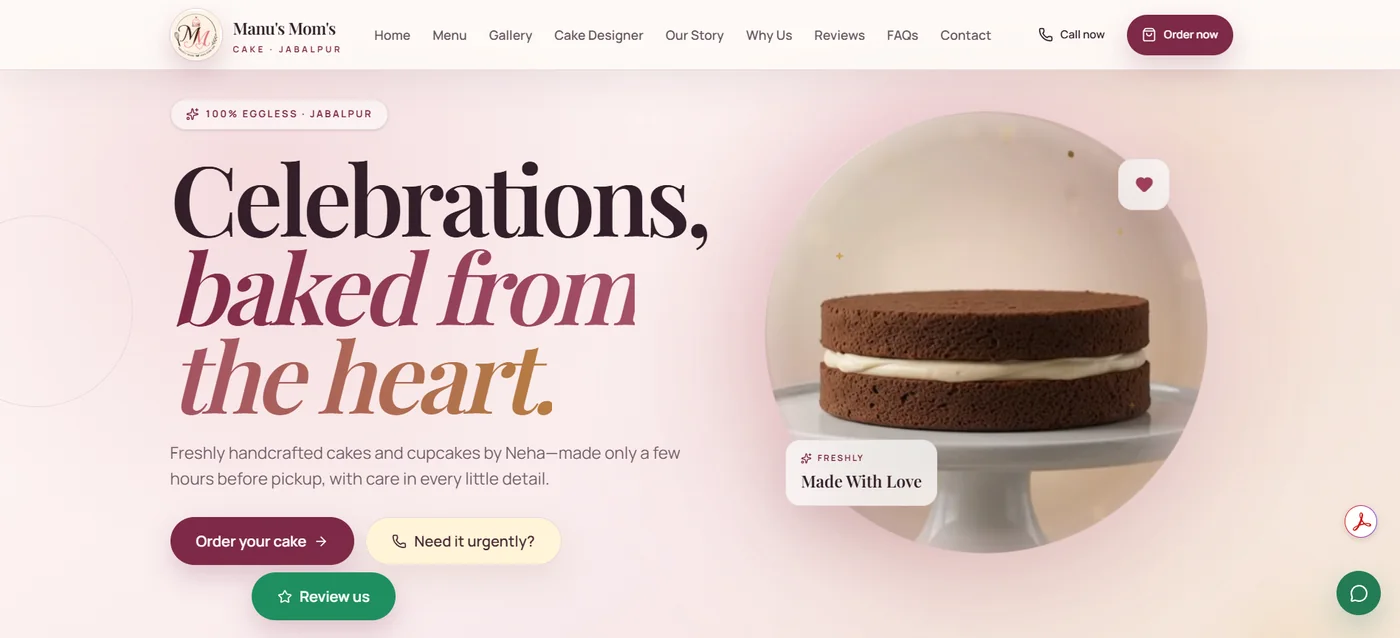
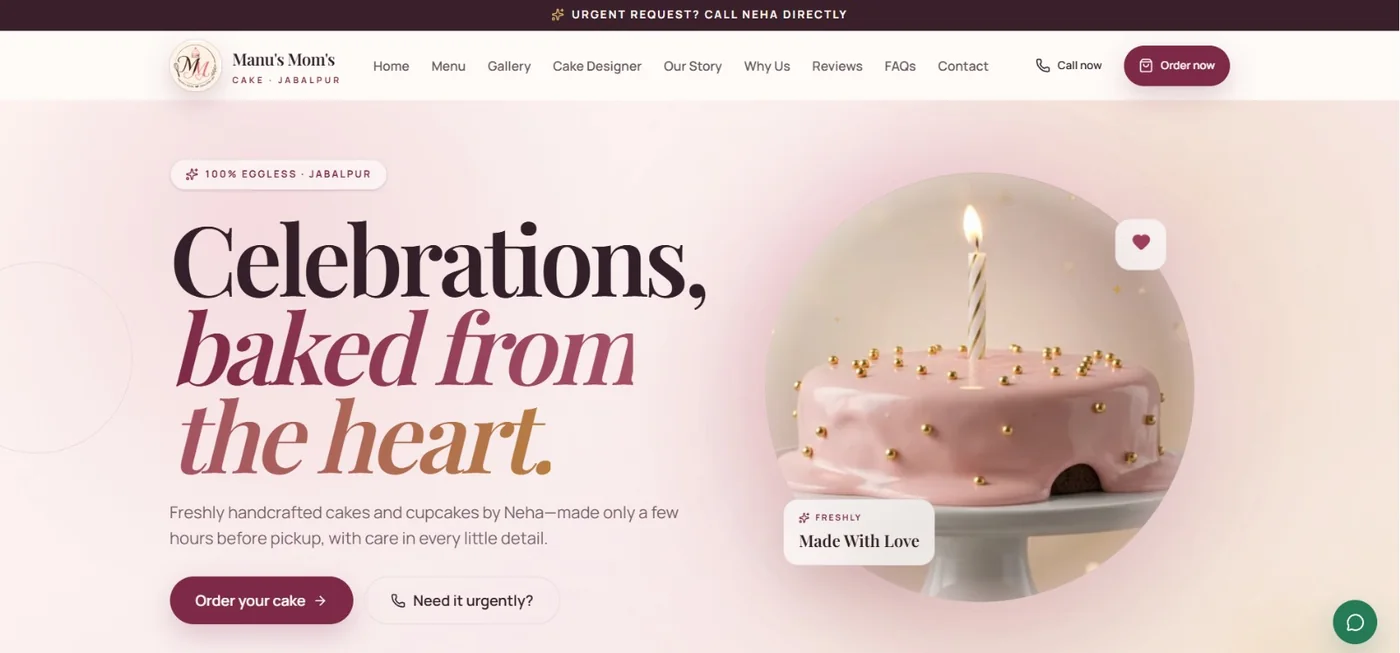
Refine case study credits and cursor behavior

diff --git a/index.html b/index.html
@@ -44,7 +44,7 @@
 <section class="section shell why-section"><div class="section-heading"><span class="eyebrow">Why choose Weburate?</span><h2>Clear decisions throughout the project.</h2><p>Trust should come from the way the work is scoped and delivered, not from unsupported numbers or invented reviews.</p></div><div class="benefit-grid"><article><h3>Clear communication</h3><p>Requirements, responsibilities, feedback and next steps are written down so both sides know what is expected.</p></article><article><h3>Practical design</h3><p>Layouts are shaped around real services, customer questions and contact actions—not decoration alone.</p></article><article><h3>Mobile responsiveness</h3><p>Pages are designed and checked for smaller screens, readable content and usable touch targets.</p></article><article><h3>Performance-conscious builds</h3><p>Lean frontend code, local assets and sensible loading choices help pages stay responsive.</p></article><article><h3>Transparent scope</h3><p>The quote identifies included pages, features, revisions, exclusions, payment milestones and dependencies.</p></article><article><h3>Launch and support boundaries</h3><p>Deployment and any defect-support period are stated in the accepted scope. Ongoing work is quoted separately.</p></article></div></section>
 <section class="dark-band" id="process"><div class="shell"><div class="section-heading"><span class="eyebrow">Project process</span><h2>Eight straightforward stages from enquiry to launch.</h2></div><div class="steps process-steps"><article><b>01</b><h3>Requirement discussion</h3><p>We discuss the business, audience, website goal, pages, features and preferred contact journey.</p></article><article><b>02</b><h3>Scope and quotation</h3><p>You receive a written scope covering deliverables, exclusions, revisions, timing and payment terms.</p></article><article><b>03</b><h3>Content collection</h3><p>You provide approved text, images, policies, brand files and account access needed for the work.</p></article><article><b>04</b><h3>Design direction</h3><p>A responsive visual direction establishes hierarchy, style and the main visitor journey.</p></article><article><b>05</b><h3>Development</h3><p>The approved direction becomes accessible, responsive pages with agreed forms and integrations.</p></article><article><b>06</b><h3>Review and revisions</h3><p>You send consolidated feedback within the revision rounds included in the written scope.</p></article><article><b>07</b><h3>Testing and launch</h3><p>Links, forms, devices, metadata and launch settings are checked before the approved site goes live.</p></article><article><b>08</b><h3>Optional maintenance</h3><p>Future updates or monitoring can be covered by a separate maintenance scope when needed.</p></article></div><p class="process-note">Delivery estimates depend on timely content, access, approvals and consolidated feedback. Delays in those inputs can move the launch date.</p></div></section>
 <section class="section shell" id="industries"><div class="section-heading"><span class="eyebrow">Industry examples</span><h2>Website planning for different customer decisions.</h2><p>These pages describe useful website directions for each industry. They do not claim previous client work.</p></div><div class="industry-grid"><a class="industry-card concept-1" href="/industries/restaurant-websites"><span>Restaurant website planning</span><strong>Menus, hours and reservations</strong></a><a class="industry-card concept-2" href="/industries/clinic-websites"><span>Clinic website planning</span><strong>Services and appointment enquiries</strong></a><a class="industry-card concept-3" href="/industries/gym-websites"><span>Gym website planning</span><strong>Memberships and trial enquiries</strong></a></div></section>
-<section class="section shell" id="portfolio"><div class="section-heading"><span class="eyebrow">Selected work</span><h2>Live client work, with concepts kept clearly separate.</h2><p>Real client projects will be added here as they launch. The first example below links to the working website; the three pieces after it remain demonstration concepts.</p></div><article class="live-case-study"><div class="case-study-visual"><img src="/assets/portfolio/manus-moms-cake-home.webp" width="1400" height="638" loading="lazy" decoding="async" alt="Manu’s Mom’s Cake homepage with eggless bakery message and ordering actions"><div class="case-study-gallery" aria-label="Manu’s Mom’s Cake website screens"><img src="/assets/portfolio/manus-moms-cake-menu.webp" width="1400" height="640" loading="lazy" decoding="async" alt="Manu’s Mom’s Cake menu with category filters and cake cards"><img src="/assets/portfolio/manus-moms-cake-designer.webp" width="1400" height="639" loading="lazy" decoding="async" alt="Manu’s Mom’s Cake twelve-step cake designer interface"></div></div><div class="case-study-copy"><span class="status-label live-label">Live client project · Bakery · Jabalpur</span><h3>Manu’s Mom’s Cake</h3><p>A Jabalpur home bakery presents its 100% eggless cakes, cupcakes and brownies through a mobile-first website with clear local information.</p><ul><li>On-page search metadata names Vijay Nagar, Ahinsa Chowk and Jagdamba Colony alongside Jabalpur.</li><li>Open Graph and Twitter Card metadata provide a full preview when the site is shared.</li><li>The 100% eggless position is stated prominently for customers comparing bakery options.</li><li>The live site uses a modern JavaScript framework and is available for search indexing.</li></ul><div class="case-study-pending"><strong>Project details to confirm</strong><p>[ASK VIRAJ: pages and features built, integrations and order or enquiry flow]</p><p>[ASK VIRAJ: timeline, specific role, prior-site status and an approved owner quote]</p></div><a class="button primary" href="https://manumomscake.in" target="_blank" rel="noopener noreferrer" data-event="portfolio_live_site">View live site <svg class="icon" viewBox="0 0 24 24" aria-hidden="true" focusable="false"><path d="M5 12h14M13 6l6 6-6 6"/></svg></a></div></article><div class="concept-heading"><span class="eyebrow">Demonstration work</span><h3>Additional website directions.</h3><p>These examples show how Weburate could structure other industry-specific websites. They are not paid client work and include no claimed results.</p></div><div class="concept-grid detailed-concepts"><article class="concept-card concept-1"><span class="status-label">Concept Project</span><div><small>Restaurant · Demo website</small><strong>Ember Table</strong><p>A warm restaurant concept that makes the menu, opening hours, location and reservation action easy to find.</p><ul><li>Menu and dietary-information layout</li><li>Hours, map and reservation links</li><li>Mobile-first enquiry journey</li></ul><p class="tech-line"><b>Technology:</b> HTML, CSS and JavaScript concept</p><a href="/industries/restaurant-websites">View restaurant concept <svg class="icon" viewBox="0 0 24 24" aria-hidden="true" focusable="false"><path d="M5 12h14M13 6l6 6-6 6"/></svg></a></div></article><article class="concept-card concept-2"><span class="status-label">Concept Project</span><div><small>Healthcare · Demo website</small><strong>CalmCare</strong><p>A calm clinic concept for approved service information, practitioner profiles and appointment enquiries.</p><ul><li>Service and practitioner structure</li><li>Timings, location and contact details</li><li>Accessible appointment-enquiry path</li></ul><p class="tech-line"><b>Technology:</b> HTML, CSS and JavaScript concept</p><a href="/industries/clinic-websites">View clinic concept <svg class="icon" viewBox="0 0 24 24" aria-hidden="true" focusable="false"><path d="M5 12h14M13 6l6 6-6 6"/></svg></a></div></article><article class="concept-card concept-3"><span class="status-label">Concept Project</span><div><small>Fitness · Demo website</small><strong>Form Studio</strong><p>An energetic gym concept that organises membership information, schedules, facilities and trial enquiries.</p><ul><li>Membership and class sections</li><li>Trainer and facility profiles</li><li>Trial-session and WhatsApp actions</li></ul><p class="tech-line"><b>Technology:</b> HTML, CSS and JavaScript concept</p><a href="/industries/gym-websites">View gym concept <svg class="icon" viewBox="0 0 24 24" aria-hidden="true" focusable="false"><path d="M5 12h14M13 6l6 6-6 6"/></svg></a></div></article></div><p class="concept-disclaimer">Each item is a demonstration concept created to show a possible website direction for that industry. <a href="#contact">Request a similar website</a> for your own verified business content.</p></section>
+<section class="section shell" id="portfolio"><div class="section-heading"><span class="eyebrow">Selected work</span><h2>Live client work, with concepts kept clearly separate.</h2><p>Real client projects will be added here as they launch. The first example below links to the working website; the three pieces after it remain demonstration concepts.</p></div><article class="live-case-study"><div class="case-study-visual"><img src="/assets/portfolio/manus-moms-cake-home.webp" width="1400" height="653" loading="lazy" decoding="async" alt="Manu’s Mom’s Cake homepage with eggless bakery message and ordering actions"><div class="case-study-gallery" aria-label="Manu’s Mom’s Cake website screens"><img src="/assets/portfolio/manus-moms-cake-menu.webp" width="1400" height="640" loading="lazy" decoding="async" alt="Manu’s Mom’s Cake menu with category filters and cake cards"><img src="/assets/portfolio/manus-moms-cake-designer.webp" width="1400" height="639" loading="lazy" decoding="async" alt="Manu’s Mom’s Cake twelve-step cake designer interface"></div></div><div class="case-study-copy"><span class="status-label live-label">Live client project · Bakery · Jabalpur</span><h3>Manu’s Mom’s Cake</h3><p>A Jabalpur home bakery presents its 100% eggless cakes, cupcakes and brownies through a mobile-first website with clear local information.</p><ul><li>On-page search metadata names Vijay Nagar, Ahinsa Chowk and Jagdamba Colony alongside Jabalpur.</li><li>Open Graph and Twitter Card metadata provide a full preview when the site is shared.</li><li>The 100% eggless position is stated prominently for customers comparing bakery options.</li><li>The live site uses a modern JavaScript framework and is available for search indexing.</li><li>The supplied screens show a searchable menu with filters, a 12-step cake designer and direct order or urgent-call actions.</li></ul><div class="case-study-pending"><strong>Project credits</strong><p>Viraj Kumar Vishwakarma led the project, with Aanya Jain as a development teammate.</p><p>[ASK VIRAJ: timeline, prior-site status and an approved owner quote]</p></div><a class="button primary" href="https://manumomscake.in" target="_blank" rel="noopener noreferrer" data-event="portfolio_live_site">View live site <svg class="icon" viewBox="0 0 24 24" aria-hidden="true" focusable="false"><path d="M5 12h14M13 6l6 6-6 6"/></svg></a></div></article><div class="concept-heading"><span class="eyebrow">Demonstration work</span><h3>Additional website directions.</h3><p>These examples show how Weburate could structure other industry-specific websites. They are not paid client work and include no claimed results.</p></div><div class="concept-grid detailed-concepts"><article class="concept-card concept-1"><span class="status-label">Concept Project</span><div><small>Restaurant · Demo website</small><strong>Ember Table</strong><p>A warm restaurant concept that makes the menu, opening hours, location and reservation action easy to find.</p><ul><li>Menu and dietary-information layout</li><li>Hours, map and reservation links</li><li>Mobile-first enquiry journey</li></ul><p class="tech-line"><b>Technology:</b> HTML, CSS and JavaScript concept</p><a href="/industries/restaurant-websites">View restaurant concept <svg class="icon" viewBox="0 0 24 24" aria-hidden="true" focusable="false"><path d="M5 12h14M13 6l6 6-6 6"/></svg></a></div></article><article class="concept-card concept-2"><span class="status-label">Concept Project</span><div><small>Healthcare · Demo website</small><strong>CalmCare</strong><p>A calm clinic concept for approved service information, practitioner profiles and appointment enquiries.</p><ul><li>Service and practitioner structure</li><li>Timings, location and contact details</li><li>Accessible appointment-enquiry path</li></ul><p class="tech-line"><b>Technology:</b> HTML, CSS and JavaScript concept</p><a href="/industries/clinic-websites">View clinic concept <svg class="icon" viewBox="0 0 24 24" aria-hidden="true" focusable="false"><path d="M5 12h14M13 6l6 6-6 6"/></svg></a></div></article><article class="concept-card concept-3"><span class="status-label">Concept Project</span><div><small>Fitness · Demo website</small><strong>Form Studio</strong><p>An energetic gym concept that organises membership information, schedules, facilities and trial enquiries.</p><ul><li>Membership and class sections</li><li>Trainer and facility profiles</li><li>Trial-session and WhatsApp actions</li></ul><p class="tech-line"><b>Technology:</b> HTML, CSS and JavaScript concept</p><a href="/industries/gym-websites">View gym concept <svg class="icon" viewBox="0 0 24 24" aria-hidden="true" focusable="false"><path d="M5 12h14M13 6l6 6-6 6"/></svg></a></div></article></div><p class="concept-disclaimer">Each item is a demonstration concept created to show a possible website direction for that industry. <a href="#contact">Request a similar website</a> for your own verified business content.</p></section>
 <section class="section shell pricing" id="pricing"><div class="section-heading"><span class="eyebrow">Indicative pricing</span><h2>Original package prices with defined starting scope.</h2><p>The amounts below are starting package estimates. Final price depends on the confirmed pages, content, features, integrations and delivery requirements.</p></div><div class="pricing-grid"><article><span>Custom Basic</span><strong>₹6,000</strong><p>Suitable for a new business needing one focused page.</p><ul class="package-list"><li>1 responsive page</li><li>Custom design direction</li><li>Contact form and WhatsApp integration</li><li>Basic on-page SEO setup</li><li>1 consolidated revision round</li><li>Estimated 3–5 business days after content approval</li><li>7 days of delivered-work defect support</li></ul><a href="#contact" data-event="pricing_cta">Get a Free Consultation</a></article><article><span>Starter</span><strong>₹6,999</strong><p>Suitable for a small service business needing a basic website.</p><ul class="package-list"><li>Up to 5 responsive pages</li><li>Custom visual design</li><li>Contact form and WhatsApp integration</li><li>Basic on-page SEO setup</li><li>2 consolidated revision rounds</li><li>Estimated 7–10 business days after content approval</li><li>14 days of delivered-work defect support</li></ul><a href="#contact" data-event="pricing_cta">Get a Free Consultation</a></article><article><span>Growth</span><strong>₹15,000</strong><p>Suitable for a growing business with broader content or one agreed integration.</p><ul class="package-list"><li>Up to 10 responsive pages</li><li>Custom visual design</li><li>Contact form and WhatsApp integration</li><li>Basic on-page SEO setup</li><li>2 consolidated revision rounds</li><li>Estimated 2–4 weeks after content approval</li><li>30 days of delivered-work defect support</li></ul><a href="#contact" data-event="pricing_cta">Discuss the Growth package</a></article><article><span>Premium</span><strong>₹25,000+</strong><p>Suitable for custom application, commerce or integration requirements.</p><ul class="package-list"><li>Pages and features defined after discovery</li><li>Custom responsive interface</li><li>Forms and integrations stated in the quote</li><li>Basic technical SEO baseline</li><li>Revisions stated in the quote</li><li>Milestone-based delivery estimate</li><li>Support period stated in the quote</li></ul><a href="#contact" data-event="pricing_cta">Discuss a Premium project</a></article></div><div class="pricing-terms"><h3>Package notes</h3><ul><li>The client supplies accurate final copy, images, policies and approvals unless content services are quoted separately.</li><li>Hosting setup may be included, but hosting fees remain separate unless the quote explicitly includes them.</li><li>Domain registration, premium tools, stock assets, licences, payment-provider fees and paid third-party services cost extra unless stated otherwise.</li><li>One revision round means one consolidated set of feedback. New pages or features are scope changes.</li><li>Work begins after the written scope and payment terms are accepted and the agreed initial payment is received.</li><li>Basic SEO setup does not guarantee search positions, traffic, enquiries or sales.</li></ul></div></section>
 <section class="section shell faq-section" id="faq"><div class="section-heading"><span class="eyebrow">Common questions</span><h2>What to know before requesting a quote.</h2></div><div class="faq-list"><div class="accordion-item"><h3><button class="accordion-button" type="button" id="faq-q-1" aria-expanded="false" aria-controls="faq-a-1">How much does a website cost?<span aria-hidden="true">+</span></button></h3><section class="accordion-panel" id="faq-a-1" aria-labelledby="faq-q-1" hidden><p>The current packages start at ₹6,000. The final quote depends on page count, design, content, forms, integrations, e-commerce requirements and support.</p></section></div><div class="accordion-item"><h3><button class="accordion-button" type="button" id="faq-q-2" aria-expanded="false" aria-controls="faq-a-2">How long does development take?<span aria-hidden="true">+</span></button></h3><section class="accordion-panel" id="faq-a-2" aria-labelledby="faq-q-2" hidden><p>A small project may take several business days after approved content is received. Larger or custom work takes longer. The written quote provides an estimate, and delayed content, access or feedback can move it.</p></section></div><div class="accordion-item"><h3><button class="accordion-button" type="button" id="faq-q-3" aria-expanded="false" aria-controls="faq-a-3">What information do I need to provide?<span aria-hidden="true">+</span></button></h3><section class="accordion-panel" id="faq-a-3" aria-labelledby="faq-q-3" hidden><p>Provide business details, approved service or product content, brand files, images, contact information, policies, examples you like, required pages, desired timing and relevant account access.</p></section></div><div class="accordion-item"><h3><button class="accordion-button" type="button" id="faq-q-4" aria-expanded="false" aria-controls="faq-a-4">Are domain and hosting included?<span aria-hidden="true">+</span></button></h3><section class="accordion-panel" id="faq-a-4" aria-labelledby="faq-q-4" hidden><p>Setup can be included in the scope, but domain registration and hosting fees are separate unless the written quote says otherwise. Accounts should normally be owned by the client.</p></section></div><div class="accordion-item"><h3><button class="accordion-button" type="button" id="faq-q-5" aria-expanded="false" aria-controls="faq-a-5">Can I update the website later?<span aria-hidden="true">+</span></button></h3><section class="accordion-panel" id="faq-a-5" aria-labelledby="faq-q-5" hidden><p>Yes. The editing approach depends on how often content changes and the selected technology. Future changes can be handled internally or through a separate maintenance scope.</p></section></div><div class="accordion-item"><h3><button class="accordion-button" type="button" id="faq-q-6" aria-expanded="false" aria-controls="faq-a-6">Will the website work on mobile?<span aria-hidden="true">+</span></button></h3><section class="accordion-panel" id="faq-a-6" aria-labelledby="faq-q-6" hidden><p>Responsive layouts, readable content and usable touch targets are included in the build and testing process.</p></section></div><div class="accordion-item"><h3><button class="accordion-button" type="button" id="faq-q-7" aria-expanded="false" aria-controls="faq-a-7">Does Weburate write website content?<span aria-hidden="true">+</span></button></h3><section class="accordion-panel" id="faq-a-7" aria-labelledby="faq-q-7" hidden><p>The client normally supplies accurate final content. Planning, editing or copywriting can be discussed and quoted separately when required.</p></section></div><div class="accordion-item"><h3><button class="accordion-button" type="button" id="faq-q-8" aria-expanded="false" aria-controls="faq-a-8">Do you provide SEO?<span aria-hidden="true">+</span></button></h3><section class="accordion-panel" id="faq-a-8" aria-labelledby="faq-q-8" hidden><p>Basic technical and on-page SEO setup can be included, but search positions depend on competition, content quality, authority and ongoing work. Rankings cannot be guaranteed.</p></section></div><div class="accordion-item"><h3><button class="accordion-button" type="button" id="faq-q-9" aria-expanded="false" aria-controls="faq-a-9">Can you redesign an existing website?<span aria-hidden="true">+</span></button></h3><section class="accordion-panel" id="faq-a-9" aria-labelledby="faq-q-9" hidden><p>Yes. A redesign starts with the current content, platform, URLs and highest-priority customer journeys. Useful URLs are preserved where possible and redirects are planned when required.</p></section></div><div class="accordion-item"><h3><button class="accordion-button" type="button" id="faq-q-10" aria-expanded="false" aria-controls="faq-a-10">What happens after launch?<span aria-hidden="true">+</span></button></h3><section class="accordion-panel" id="faq-a-10" aria-labelledby="faq-q-10" hidden><p>The included defect-support period is stated in the package or quote. New features, ongoing updates, monitoring and third-party issues require a separate maintenance agreement.</p></section></div><div class="accordion-item"><h3><button class="accordion-button" type="button" id="faq-q-11" aria-expanded="false" aria-controls="faq-a-11">How do payments work?<span aria-hidden="true">+</span></button></h3><section class="accordion-panel" id="faq-a-11" aria-labelledby="faq-q-11" hidden><p>Payment terms are confirmed in the written quote. Projects normally begin after the agreed initial payment, with remaining payments tied to stated milestones.</p></section></div><div class="accordion-item"><h3><button class="accordion-button" type="button" id="faq-q-12" aria-expanded="false" aria-controls="faq-a-12">How many revisions are included?<span aria-hidden="true">+</span></button></h3><section class="accordion-panel" id="faq-a-12" aria-labelledby="faq-q-12" hidden><p>Custom Basic includes one consolidated round; Starter and Growth include two. Premium and custom projects state revision rounds in the quote. Additional or out-of-scope changes may affect price and timing.</p></section></div></div></section>
 <section class="section shell contact" id="contact"><div><span class="eyebrow">Free website consultation</span><h2>Share what your business needs from its website.</h2><p>Send the essential details for an initial discussion. Weburate can respond using the email or phone number you provide. There is no obligation to proceed after the consultation.</p><div class="contact-links"><a href="https://wa.me/916264449774?text=Hi%20Weburate%2C%20I%27m%20interested%20in%20discussing%20a%20website%20for%20my%20business." data-event="whatsapp_contact"><span>Fast alternative</span><strong>Chat on WhatsApp</strong></a><a href="tel:+916264449774" data-event="phone_click"><span>Phone</span><strong>+91&nbsp;62644&nbsp;49774</strong></a><a href="mailto:weburateinfotech@gmail.com" data-event="email_click"><span>Email</span><strong>weburateinfotech@gmail.com</strong></a></div></div><form id="contact-form" class="contact-form" novalidate><div class="field"><label for="name">Name <span aria-hidden="true">*</span></label><input id="name" name="name" type="text" autocomplete="name" maxlength="100" required aria-describedby="name-error"><span class="field-error" id="name-error"></span></div><div class="field"><label for="business">Business or organization <span class="optional">Optional</span></label><input id="business" name="business" type="text" autocomplete="organization" maxlength="120"></div><div class="field"><label for="email">Email <span aria-hidden="true">*</span></label><input id="email" name="email" type="email" autocomplete="email" inputmode="email" maxlength="254" required aria-describedby="email-error"><span class="field-error" id="email-error"></span></div><div class="field"><label for="phone">Phone or WhatsApp <span class="optional">Optional</span></label><input id="phone" name="phone" type="tel" autocomplete="tel" maxlength="30"></div><div class="field"><label for="service">Type of website</label><select id="service" name="service"><option value="">Not sure yet</option><option>Business Website</option><option>Landing Page</option><option>E-commerce Website</option><option>Website Redesign</option><option>Website Maintenance</option></select></div><div class="field"><label for="budget">Approximate budget <span class="optional">Optional</span></label><select id="budget" name="budget"><option value="">Prefer to discuss</option><option>₹6,000–₹10,000</option><option>₹10,001–₹20,000</option><option>₹20,001–₹40,000</option><option>Above ₹40,000</option></select></div><div class="field full"><label for="message">Project details <span aria-hidden="true">*</span></label><textarea id="message" name="message" rows="6" minlength="20" maxlength="3000" required aria-describedby="message-help message-error"></textarea><span class="field-help" id="message-help">Mention the current website, required pages, main customer action, desired timing and important integrations when known.</span><span class="field-error" id="message-error"></span></div><div class="honeypot" aria-hidden="true"><label for="website">Leave this field empty</label><input id="website" name="website" type="text" tabindex="-1" autocomplete="off"></div><input type="hidden" name="startedAt" id="started-at"><div class="full"><p class="consent">Your information is used only to understand and respond to this enquiry. Read the <a href="/privacy">Privacy Policy</a>.</p><div id="form-status" class="form-status" role="status" aria-live="polite"></div><button class="button primary" type="submit">Request a Free Consultation <svg class="icon" viewBox="0 0 24 24" aria-hidden="true" focusable="false"><path d="M5 12h14M13 6l6 6-6 6"/></svg></button></div></form></section></main><footer class="footer shell">

diff --git a/assets/css/site.20260717-3.css b/assets/css/site.20260717-3.css
@@ -320,4 +320,5 @@ background:rgba(255,255,255,.82);
 box-shadow:0 18px 45px rgba(0,0,0,.08);
 transform:translateY(-2px) scale(.985);
 }
+body{cursor:default}a,button,summary,label[for],select{cursor:pointer}input,textarea,[contenteditable="true"]{cursor:text}
 .live-case-study{display:grid;grid-template-columns:minmax(0,1.3fr) minmax(300px,.7fr);gap:clamp(1.5rem,4vw,3.5rem);overflow:hidden;padding:clamp(1rem,2vw,1.5rem);border:1px solid var(--line);border-radius:var(--radius);background:#fff;box-shadow:var(--shadow)}.case-study-visual{display:grid;gap:.7rem;align-content:start}.case-study-visual>img,.case-study-gallery img{display:block;width:100%;height:auto;border:1px solid var(--line);border-radius:14px;background:#f6efec}.case-study-gallery{display:grid;grid-template-columns:repeat(2,minmax(0,1fr));gap:.7rem}.case-study-copy{align-self:center;padding:clamp(.4rem,2vw,1.2rem)}.case-study-copy h3{margin:.9rem 0;font-size:clamp(2.2rem,4vw,4rem)}.case-study-copy ul{display:grid;gap:.7rem;padding-left:1.2rem;color:var(--muted)}.live-label{border-color:#83bdae;background:#e4f3ee;color:#075d46}.case-study-pending{margin:1.4rem 0;padding:1rem;border-left:4px solid #d59a20;background:#fff4d5}.case-study-pending p{margin:.45rem 0;color:#5b430e;font-size:.88rem}.concept-heading{max-width:760px;margin:clamp(3.5rem,7vw,6rem) 0 2rem}.concept-heading h3{font-size:clamp(2rem,4vw,3.5rem)}@media(max-width:980px){body{padding-bottom:calc(4.75rem + env(safe-area-inset-bottom))}.floating-whatsapp{position:fixed;margin:0;right:.75rem;bottom:max(.75rem,env(safe-area-inset-bottom));width:54px;height:54px}.live-case-study{grid-template-columns:1fr}.case-study-copy{padding:.5rem}}@media(max-width:560px){.case-study-gallery{grid-template-columns:1fr}.case-study-copy h3{font-size:2.2rem}}
